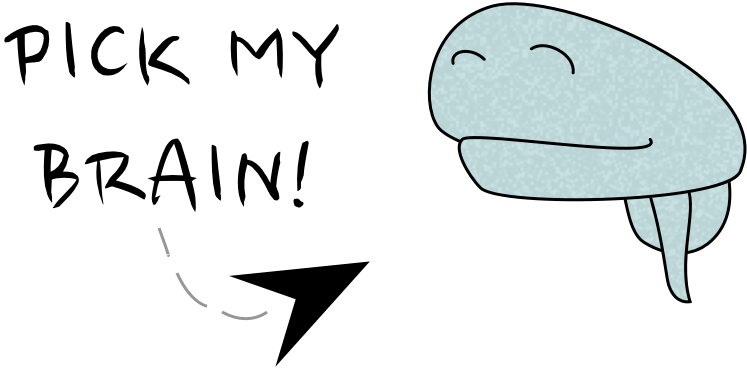
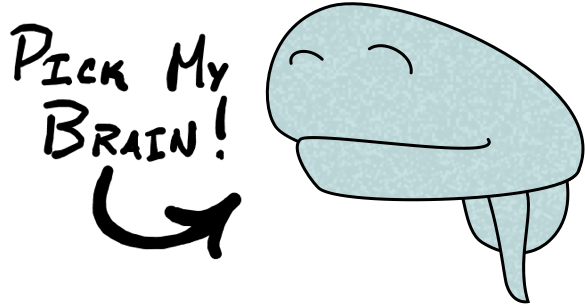
Changed sign text, thought bubble is now an svg

diff --git a/client/components/pickMyBrain.jsx b/client/components/pickMyBrain.jsx
@@ -18,9 +18,9 @@ export default PickMyBrain = React.createClass({
 	},
 	componentDidUpdate() {
 		if (this.state.selected !== null) {
-			$(".pickMyBrain--thoughtBubble, .pickMyBrain--link").animate({opacity: 1});
+			$(".pickMyBrain--thoughtBubble, .pickMyBrain--link, .pickMyBrain--thoughtBubbleArrow").animate({opacity: 1});
 		} else {
-			$(".pickMyBrain--thoughtBubble").animate({opacity: 0});
+			$(".pickMyBrain--thoughtBubble, .pickMyBrain--thoughtBubbleArrow").animate({opacity: 0}, 250);
 		}
 	},
 	render() {
@@ -46,10 +46,12 @@ export default PickMyBrain = React.createClass({
 		return (
 			<div className="pickMyBrain--container">
 				<img className="pickMyBrain--brainAndSign" src={"/assets/pickMyBrain--brainAndSign.png"} onClick={closeBubble} />
-				<div className="pickMyBrain--thoughtBubble">
-					<div className="pickMyBrain--linkContainer">
+				<svg className="pickMyBrain--thoughtBubble" width="280px" height="194px" viewBox="-10 0 290 194">
+		            <path fill="none" strokeWidth="5" stroke="#07939E" strokeLinecap="round" d="M209,73 C209,73 218.000006,63.8718455 205,54.8718414 C175.6123,34.5265105 3.47981744,86.0603573 20.0000009,51.9999993 C30.6705884,29.9999995 57,33.0000001 50,51.9999995 C43,70.9999989 35.9999995,73.0000018 24.3294136,95.0000018 C13.9656901,114.53646 -24.6705855,187.743695 24.3294145,187.743695 C73.3294144,187.743695 121.329412,187.743695 139.32942,187.743695 C157.329427,187.743695 222.329414,187.743695 256.329414,187.743695 C290.329414,187.743695 277.999997,90.0000006 253.999997,59 C231.619853,30.0923137 170.670575,39 154.999997,32 C139.329419,25 131.000003,4 155,1.56319402e-13" id="Path-43"></path>
+				</svg>
+				<img className="pickMyBrain--thoughtBubbleArrow" src={"/assets/pickMyBrain--thoughtBubbleArrow.svg"} />
+				<div className="pickMyBrain--linkContainer">
 					<a className="pickMyBrain--linkText" href={link.href}>{link.desc}</a>
-					</div>
 				</div>
 			</div>
 		)
@@ -71,8 +73,10 @@ export default PickMyBrain = React.createClass({
 		return (
 			<div className="pickMyBrain--container">	
 				<img className="pickMyBrain--brainAndSign" src={"/assets/pickMyBrain--brainAndSign.png"} onClick={pickLink} />
-				<div className="pickMyBrain--thoughtBubble">
-				</div>
+				<svg className="pickMyBrain--thoughtBubble" width="280px" height="194px" viewBox="-10 0 290 194">
+		            <path fill="none" strokeWidth="5" stroke="#07939E" strokeLinecap="round" d="M209,73 C209,73 218.000006,63.8718455 205,54.8718414 C175.6123,34.5265105 3.47981744,86.0603573 20.0000009,51.9999993 C30.6705884,29.9999995 57,33.0000001 50,51.9999995 C43,70.9999989 35.9999995,73.0000018 24.3294136,95.0000018 C13.9656901,114.53646 -24.6705855,187.743695 24.3294145,187.743695 C73.3294144,187.743695 121.329412,187.743695 139.32942,187.743695 C157.329427,187.743695 222.329414,187.743695 256.329414,187.743695 C290.329414,187.743695 277.999997,90.0000006 253.999997,59 C231.619853,30.0923137 170.670575,39 154.999997,32 C139.329419,25 131.000003,4 155,1.56319402e-13" id="Path-43"></path>
+				</svg>
+				<img className="pickMyBrain--thoughtBubbleArrow" src={"/assets/pickMyBrain--thoughtBubbleArrow.svg"} />
 			</div>
 		)
 	}

diff --git a/client/components/intro.jsx b/client/components/intro.jsx
@@ -7,7 +7,7 @@ export default Intro = () => (
 		<a href="https://www.github.com/alexjhannan"><img src={"/assets/intro--gitHubIcon.svg"} className="intro--icon" /></a>
 		<div className="intro--textBox">
 			<p className="center">Hi! My name is Alex, and <span className="accentText">I’m a self-taught developer</span> in NYC.</p> 
-			<p>A year ago, I was teaching <span className="accentText">calculus and physics</span> at a private high school. Disappointing career options had my eyes wandering towards other paths. The market is pushing towards tech, like it always has, and I have always been a techy at heart. It just made sense to make the switch.</p>
+			<p>A year ago, I was teaching <span className="accentText">calculus</span> and <span className="accentText">physics</span> at a private high school. Disappointing career options had my eyes wandering towards other paths. The market is pushing towards tech, like it always has, and I have always been a techy at heart. It just made sense to make the switch.</p>
 			<p>I was a bit skeptical of the canned education that bootcamps were offering, and I was also pretty confident in managing an educational plan. <span className="accentText">So, I taught myself how to code.</span> It didn’t hurt that I studied physics in school and had already learned many of the underlying concepts. <span className="accentText">Before I knew it, I was building and deploying web pages by myself.</span> Nowadays, I play with design on top of the full stack, and am always looking for the next skill to add to my capabilities.</p>
 			<p>If you’re a part of a team that’s interested in an <span className="accentText">ambitious and independent coder</span>, or a client interested in hiring for some contract work, please <span className="accentText">feel free to email me at alexjhannan@gmail.com!</span> I am currently looking for both full-time positions and contracts.</p>
 			<p className="center">Thanks, and have a great day!</p>

diff --git a/client/styles/_pickMyBrain.scss b/client/styles/_pickMyBrain.scss
@@ -1,31 +1,35 @@
 .pickMyBrain--container{
 	margin: 0 auto 0;
-	width: 250px;
+	width: 178px;
 	height: 275px;
+	position: relative;
 }
 
 .pickMyBrain--brainAndSign {
 	width: 250px;
 	height: auto;
 	cursor: pointer;
+	z-index: 10;
+	position: relative;
 }
 
-.pickMyBrain--thoughtBubble{
-	width: 250px;
-	height: 200px;
-	background: url("/assets/pickMyBrain--thoughtBubble.svg") no-repeat;
-	background-size: 250px 200px;
-	background-position: center;
+.pickMyBrain--thoughtBubble {
 	position: relative;
+	top: -45px;
 	opacity: 0;
-	top: -62px;
-	left: 10px;
 }
 
 .pickMyBrain--linkContainer {
 	width: 200px;
 	position: relative;
-	left: 25px;
-	top: 110px;
+	left: 45px;
+	top: -175px;
 	text-align: center;
+}
+
+.pickMyBrain--thoughtBubbleArrow {
+	position: relative;
+	top: -180px;
+	left: 170px;
+	opacity: 0;
 }

diff --git a/client/components/resumeButton.jsx b/client/components/resumeButton.jsx
@@ -5,9 +5,9 @@ export default ResumeButton = () => (
 		<div className="resumeButton--textBox">
 			<p className="resumeButton--bigText">
 				RESUME
-				<img src={"/assets/resumeButton--squigglyLine.svg"} className="resumeButton--squigglyLine" />
-				<img src={"/assets/resumeButton--squigglyLine.svg"} className="resumeButton--squigglyLine" />
-				<img src={"/assets/resumeButton--squigglyLine.svg"} className="resumeButton--squigglyLine" />
+				<img src={"/assets/resumeButton--squigglyLine.svg"} />
+				<img src={"/assets/resumeButton--squigglyLine.svg"} />
+				<img src={"/assets/resumeButton--squigglyLine.svg"} />
 			</p>
 		</div>
 	</a>

diff --git a/client/styles/_skillChart.scss b/client/styles/_skillChart.scss
@@ -7,7 +7,7 @@
 	padding: 20px;
 	padding-bottom: 3px;
 	text-align: center;
-	margin-top: -15px;
+	margin-top: 1px;
 	.row {
 		margin-bottom: 10px;
 	}

diff --git a/client/styles/_resumeButton.scss b/client/styles/_resumeButton.scss
@@ -1,6 +1,6 @@
 .resumeButton--button {
 	width: 100%;
-	height: 260px;
+	height: 278px;
 	border-radius: 20px;
 }
 
